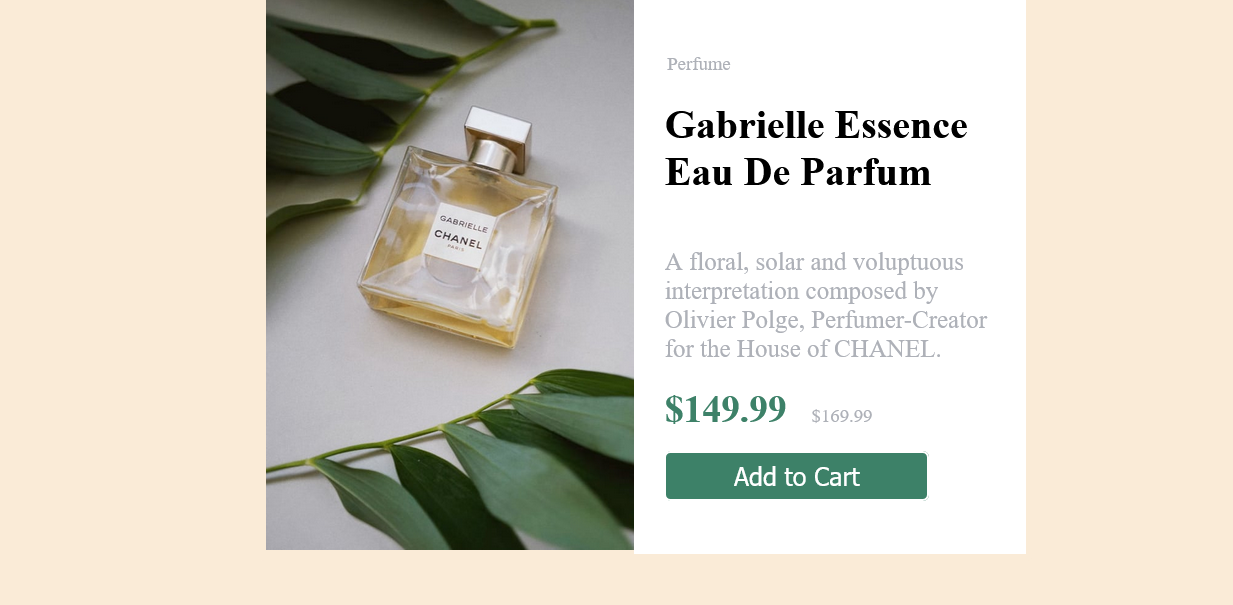
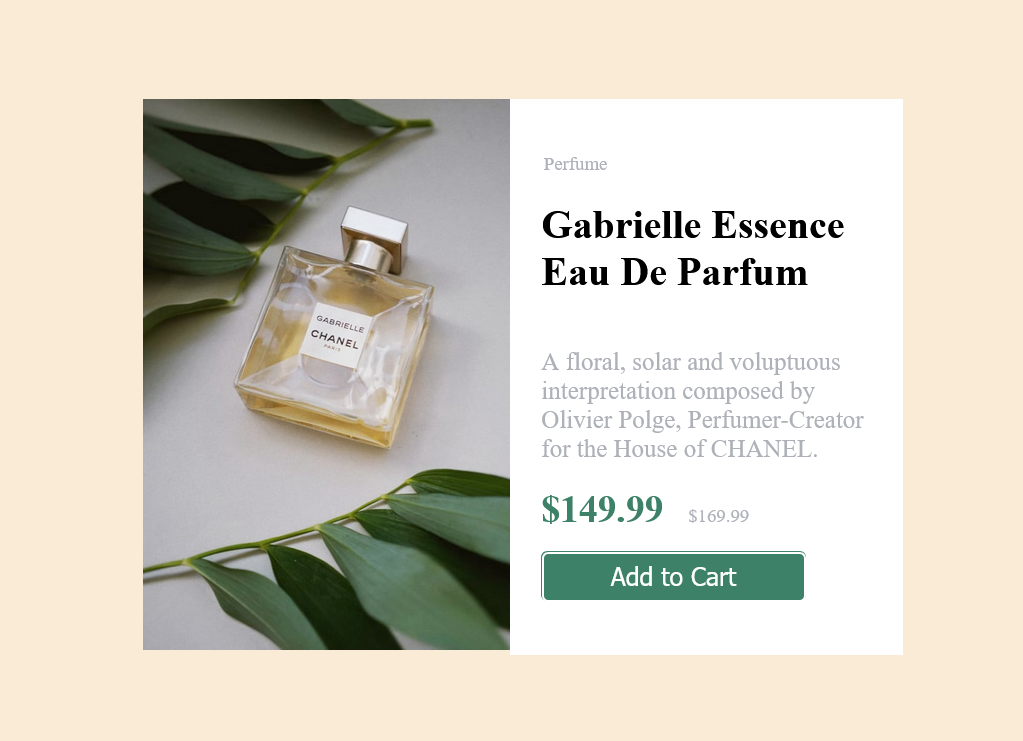
first-commit

diff --git a/style.css b/style.css
@@ -1,12 +1,14 @@
 body{
-    background-color: antiquewhite;
-}
+    margin: 0;
+    padding: 0;
+    background-color:antiquewhite;
+  }
 .container
 {
+    margin: 50% 30%;
     display: flex;
     width: 40%;
     height: auto;
-    margin: auto;
     border: 5px solid antiquewhite;
     border-radius: 3px;
 }
